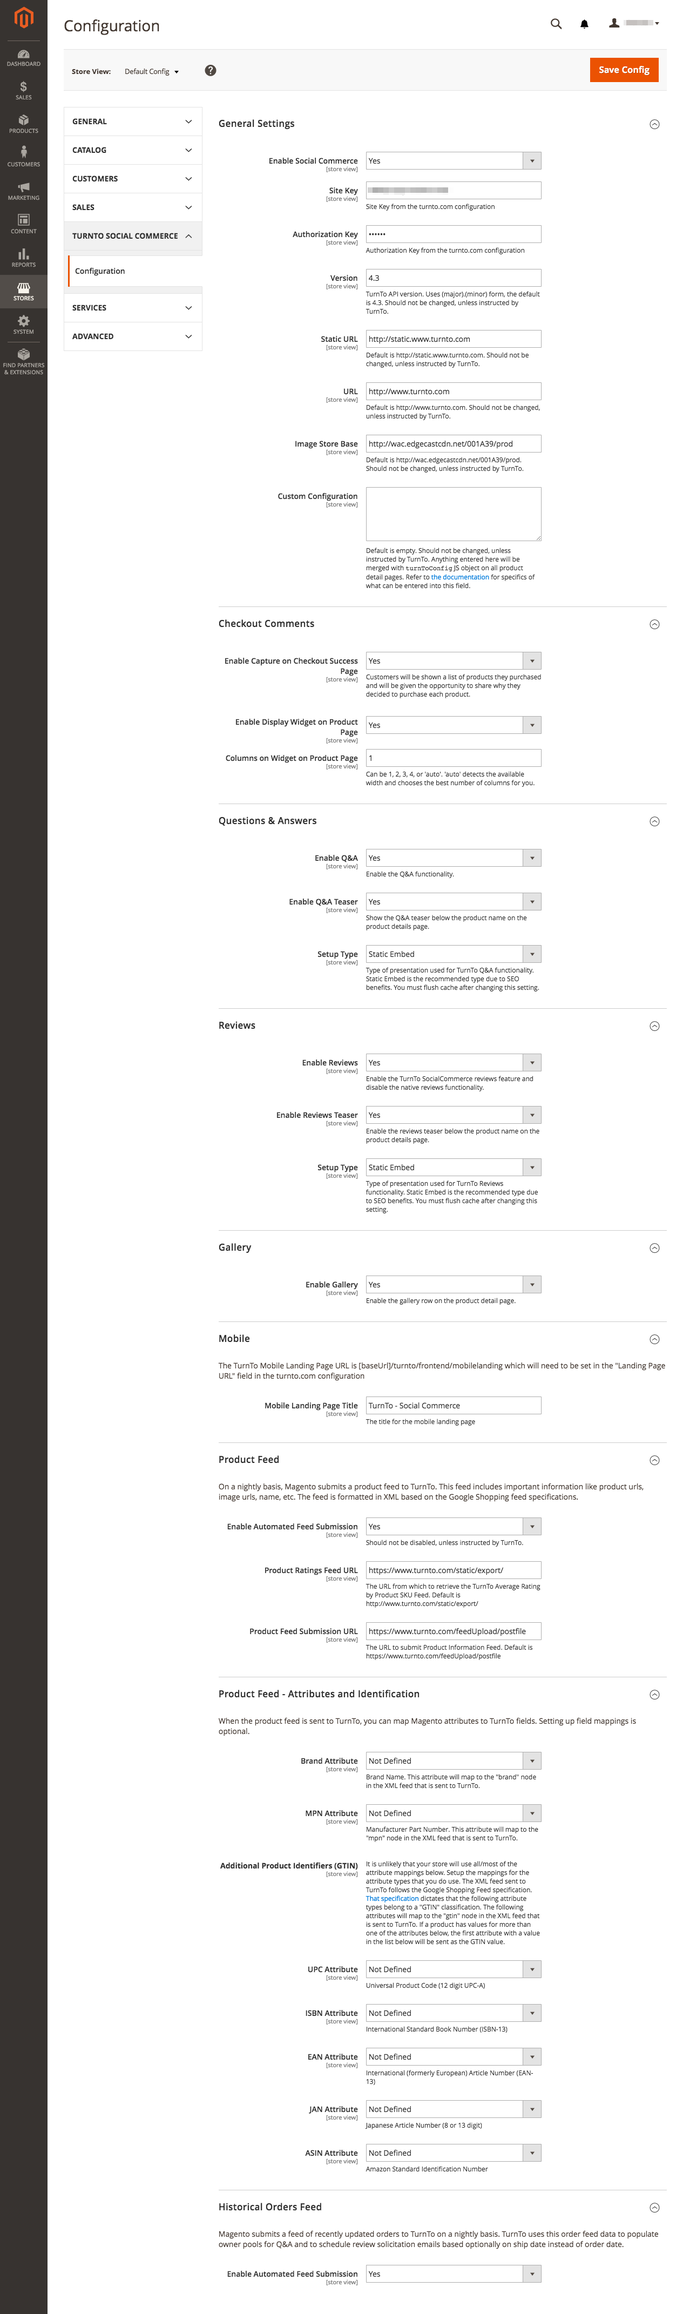
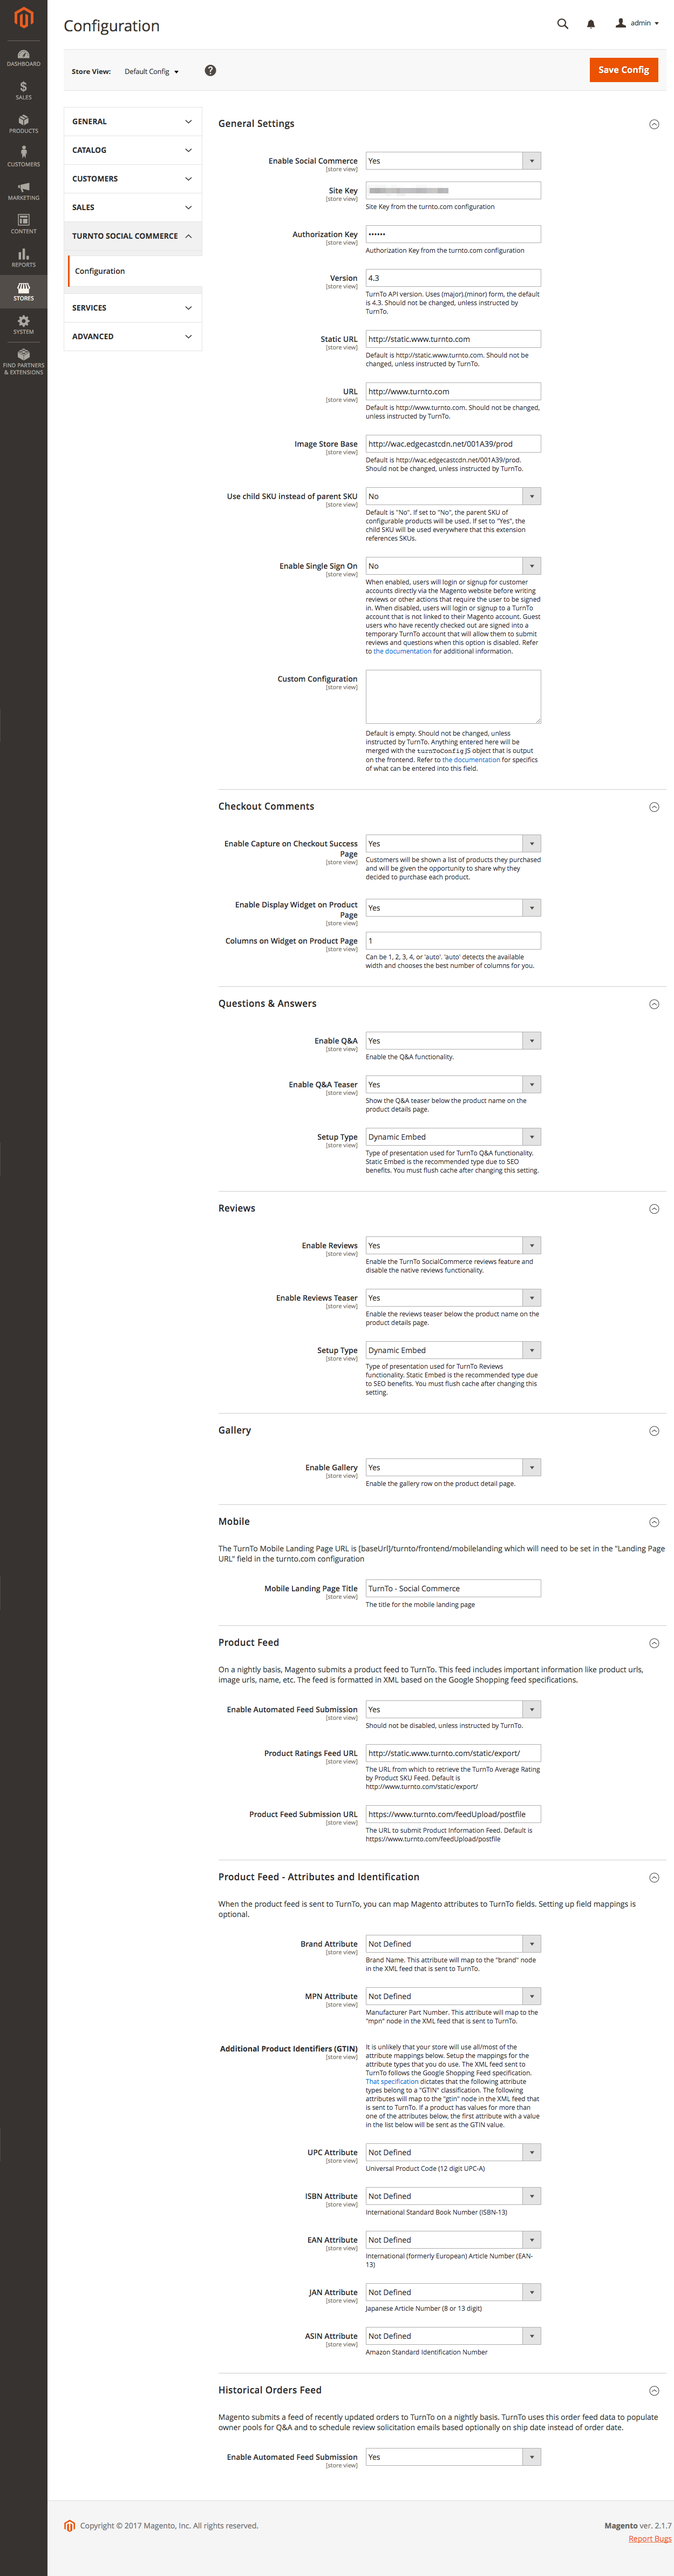
Add Code QA changes

diff --git a/Controller/SSO/GetUserStatus.php b/Controller/SSO/GetUserStatus.php
@@ -86,22 +86,18 @@ class GetUserStatus extends \Magento\Framework\App\Action\Action
         return $resultJson;
     }
 
+    /**
+     * Creates a signature that authenticates the user information with TurnTo's servers
+     * https://docs.google.com/document/d/1AEpganoUMVbDyqlYBctN9m9r3J8v8hug5haFkX81934/edit
+     * Section: Computing the signature
+     *
+     * @param $customerData
+     * @return mixed
+     */
     public function getSignature($customerData) {
         // Sort the fields on user alphabetically
         ksort($customerData);
-
-        // Build a parameter string to be hashed. Format: key1=value1&key2=value2...
-        $params = '';
-        foreach ($customerData as $key => $val) {
-            // make sure to exclude parameters that are null or ''
-            if ($val) {
-                $params .= $key . '=' . $val . '&';
-            }
-        }
-
-        // Remove the last &
-        $params = substr($params, 0, -1);
-
+        $params = urldecode(http_build_query($customerData, null, '&', PHP_QUERY_RFC3986));
         $authKey = $this->configHelper->getAuthorizationKey();
 
         // Hash the parameter string and base64 encode it because the hash result is binary

diff --git a/README.md b/README.md
@@ -58,6 +58,9 @@ Here is a screenshot of an example configuration:
  
 ![Media Url Configuration](README/turnto_socialcommerce_media_url.png)
 
+## Single Sign On
+TurnTo requires that some user actions, such as answering a question, can only be done by a logged-in user. TurnTo has its own authentication system that will display a registration screen to the user of the widgets when appropriate. If you choose instead to use your site’s authentication / registration functionality so that users who are already logged into your site do not need to register again when using the TurnTo widgets, you can make use of the TurnTo single sign-on (SSO) features.
+
 ## Custom Configuration
 
 Note: This is an advanced configuration option and should only be configured by a developer.
